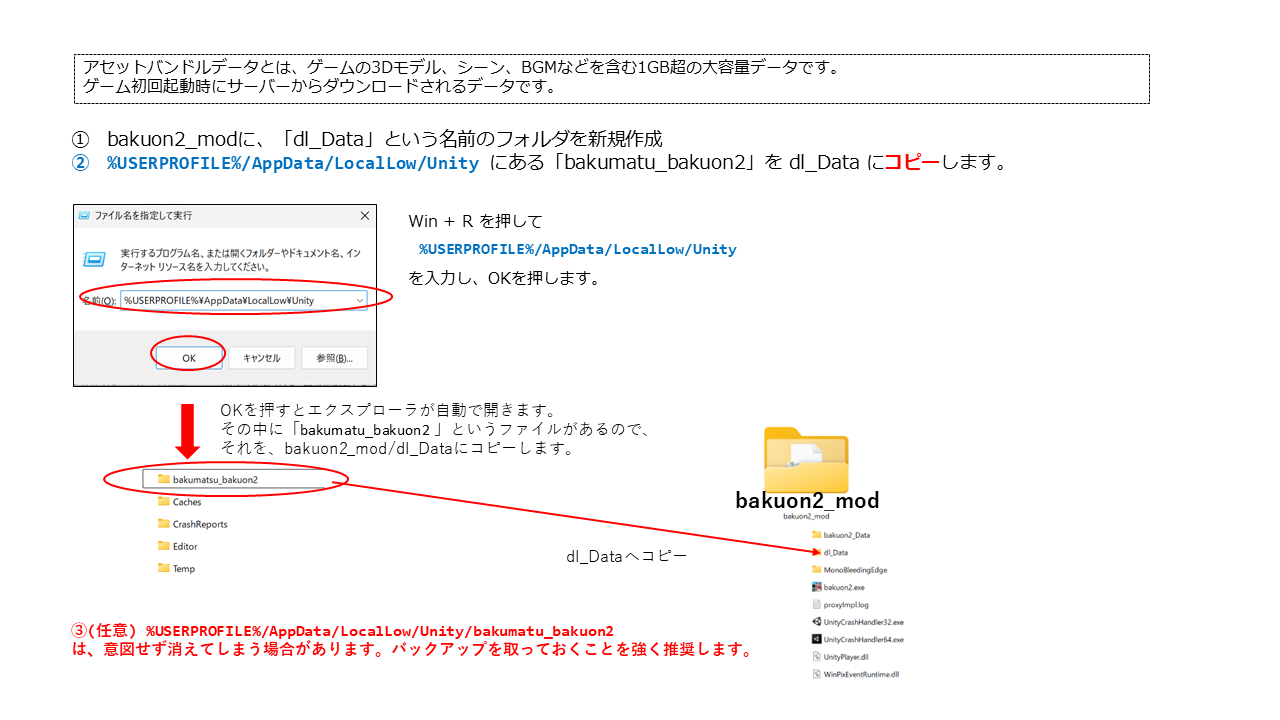
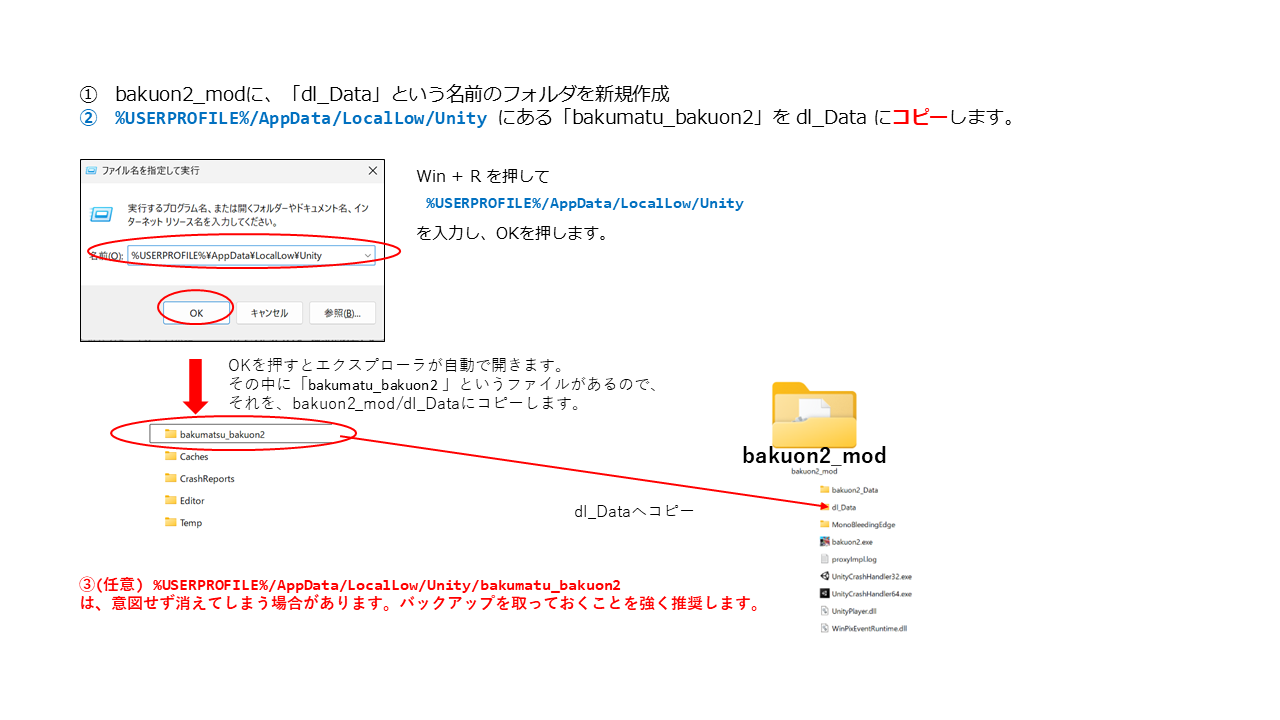
修正

diff --git a/README.md b/README.md
@@ -8,6 +8,13 @@
 
 - 【注意】オフライン化は自己責任で行ってください。
 
+
+## 動作環境
+
+- Windows 10 / 11
+- 「幕末志士オンライン2」がインストール済みであること
+    - バージョン： Ver.3.2a(v.20220118)
+
 ## 1. 幕オン2のゲームデータをコピーする
 1. 幕オン2を起動するexeファイルを含むフォルダ「bakuon2」をコピーします。
 2. コピーしたbakuon2を、 bakuon2_mod に名前変更します。（以後、「 bakuon2_mod 」を、オフライン用の環境とします。）
@@ -18,7 +25,12 @@
 
 ## 2. アセットバンドルデータをコピー
 
-アセットバンドルデータとは、ゲームの3Dモデル、シーン、BGMなどを含む1GB超の大容量データです。ゲーム初回起動時にサーバーからダウンロードされるデータです。
+アセットバンドルデータとは、ゲームの3Dモデル、シーン、音声などを含む1GB超の大容量データです。ゲーム起動時にサーバーからダウンロードされ、ローカルに保存される仕組みでした。
+
+> **最重要**: このデータは必ずバックアップしてください。
+
+**サービスが終了した現在、このデータを再取得する方法はありません。** このデータがないとゲームの3Dモデルやシーンが表示されません。もしゲームのトップ画面にあった「ダウンロードデータ削除」ボタンを押してしまっていた場合、残念ながらデータは喪失しており、復旧は困難です。
+
 
 1. bakuon2_modに、「dl_Data」という名前のフォルダを新規作成
 2. `%USERPROFILE%/AppData/LocalLow/Unity` にある「bakumatu_bakuon2」を dl_Data にコピーします。
@@ -30,7 +42,7 @@
         を入力し、OKを押します。（↑をコピペしてください）
 
     
-3. (任意) `%USERPROFILE%/AppData/LocalLow/Unity/bakumatu_bakuon2`
+3. `%USERPROFILE%/AppData/LocalLow/Unity/bakumatu_bakuon2`
 は、意図せず消えてしまう場合があります。バックアップを取っておくことを強く推奨します。
 
 ![P4](./images/P4.PNG)